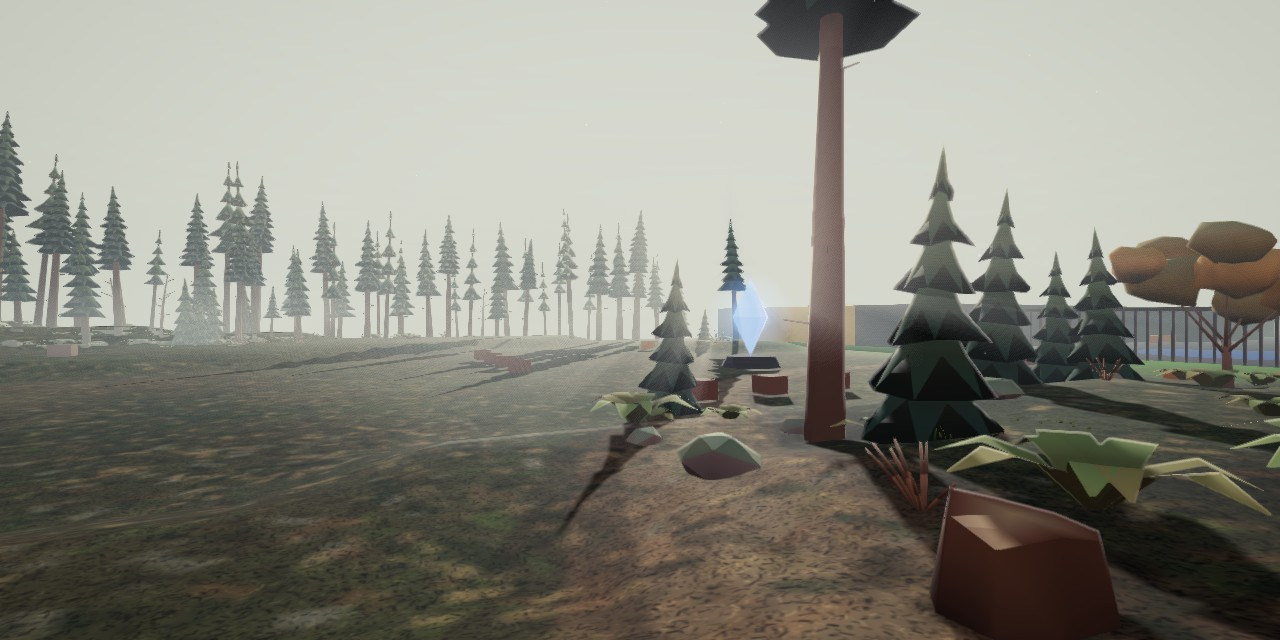
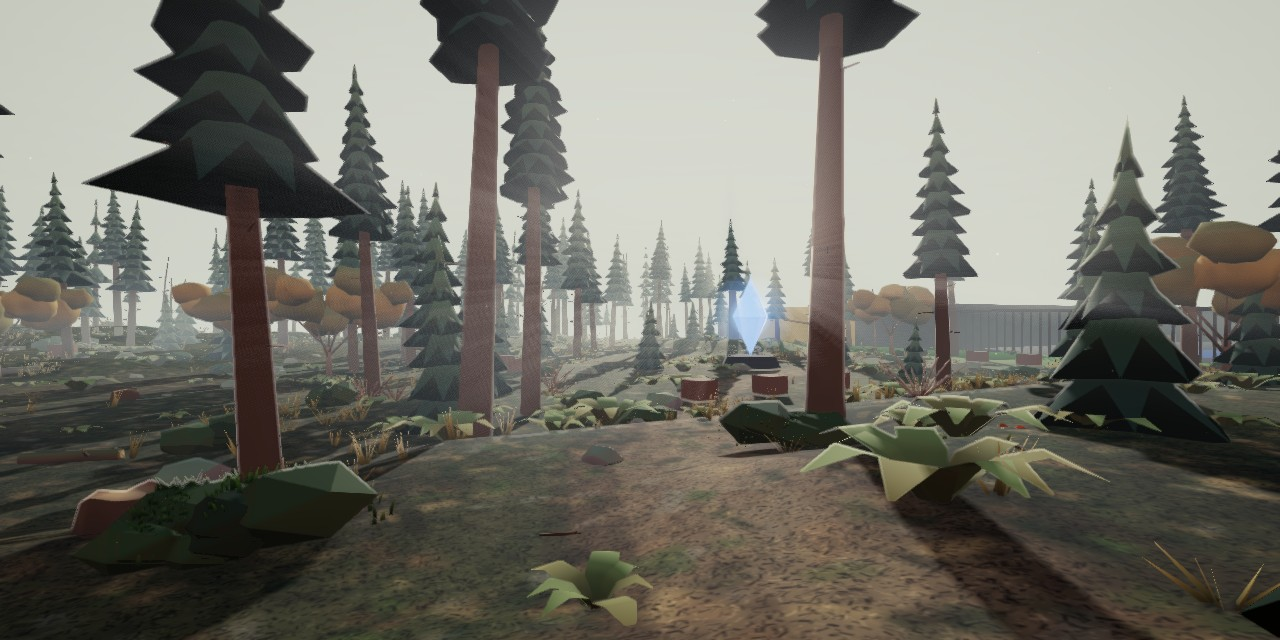
Castle Strike forest: denser solid trees, solid boulders, living ground detail (protocol v81)
genFcs adds ~170 seeded collidable forest trees, a two-row solid tree wall along the map edge and solid boulders on slopes (same on every client). Forest view draws them plus code-built grass tufts, leafy bushes, twigs and mushrooms, and more ferns/stones/logs. Bench siege 12 players High 1080p: GPU 7.1 ms median.

diff --git a/js/28-fcs-forest.js b/js/28-fcs-forest.js
@@ -75,12 +75,11 @@ function fcsForest(fallback){
   const hOf={pine_a:20.5,pine_b:26.3,pine_c:15.6,pine_d:31.1,pine_s:6.6,pine_la:24.3,pine_lb:19.5,snag_a:13,snag_b:9,autumn_a:11.4,autumn_b:9.8};
   for(const [x,y] of trees){const [id,h]=pickTree();put(id,x,y,h/hOf[id]);}
   // ผนังต้นไม้รอบขอบ (ไม่ชน): 2 แถว ห่าง ~3.3 ม. สนไกลเบา ๆ ปนสนจริง
-  const edge=(x,y)=>{if(!free(x,y,0)||nearP(x,y,sps,110))return;const q=R(),far=R()<0.42;
+  const edge=(x,y)=>{const q=R(),far=R()<0.42;
     if(far)put(q<0.5?'pine_la':'pine_lb',x,y,(0.55+R()*0.45),{lean:1});
     else{const [id,h]=pickTree();put(id==='autumn_a'||id==='autumn_b'?'pine_a':id,x,y,h/hOf[id==='autumn_a'||id==='autumn_b'?'pine_a':id]*(0.9+R()*0.3),{lean:1});}};
-  for(let row=0;row<2;row++){const d0=60+row*110;
-    for(let y=40;y<H;y+=62+R()*28)edge(d0+R()*60,y+R()*30);                       // ตะวันตก
-    for(let x=100;x<(FF_X1-3)*C;x+=62+R()*28){edge(x+R()*30,d0+R()*50);edge(x+R()*30,H-d0-R()*50);}}   // เหนือ/ใต้
+  // ผนังต้นไม้ขอบแผนที่ (ชนได้ — สร้างใน genFcs js/02-fcs.js) • สนไกลเบา ๆ ปนสนจริง
+  for(const q of F.props)if(q[0]==='te')edge(q[1],q[2]);
   // สนอ่อน (ต้นเล็กแซมใต้ร่ม)
   for(let i=0;i<70;i++){const [bx,by]=trees[(R()*trees.length)|0],a=R()*6.283,d=70+R()*160,x=bx+Math.cos(a)*d,y=by+Math.sin(a)*d;if(free(x,y,1))put('pine_s',x,y,0.7+R()*0.7,{lean:1});}
   // เฟิร์น+พุ่ม เป็นกลุ่มรอบโคนต้นไม้และกลางหย่อม
@@ -90,10 +89,19 @@ function fcsForest(fallback){
   scatter(['stone_a','stone_b','stone_c'],190,260,(id,x,y)=>put(id,x,y,0.8+R()*1.4));
   scatter(['stump_a'],14,300,(id,x,y)=>{if(free(x,y,1))put(id,x,y,0.7+R()*0.5);});
   scatter(['log_a','log_b','log_c'],26,300,(id,x,y)=>{if(free(x,y,1))put(id,x,y,0.8+R()*0.5);});
-  // หินก้อนใหญ่ตามไหล่เนิน/ขอบหน้าผา (ที่ชัน) + หินเล็กรอบ ๆ
-  let nb=0;for(let t=0;t<2600&&nb<44;t++){const x=60+R()*(FF_X1*C-120),y=60+R()*(H-120);if(!free(x,y,1)||slope(x,y)<0.28)continue;
-    const id=['boulder_a','boulder_b','boulder_c','boulder_d','boulder_a','cliff_a'][(R()*6)|0];put(id,x,y,0.7+R()*0.7);nb++;
-    for(let q=0;q<3;q++){const a=R()*6.283,d=30+R()*60,sx=x+Math.cos(a)*d,sy=y+Math.sin(a)*d;if(free(sx,sy,0))put(['stone_a','stone_b','stone_c'][q],sx,sy,1+R()*1.4);}}
+  // หินก้อนใหญ่ (ชนได้ — ตำแหน่ง/ชนิด/ขนาดจาก genFcs) + หินเล็กรอบ ๆ
+  for(const q of F.props){if(q[0]!=='bd')continue;const [,x,y,ty,sz]=q;put(['boulder_a','boulder_b','boulder_c','boulder_d','cliff_a'][ty],x,y,sz);
+    for(let k=0;k<4;k++){const a=R()*6.283,d=40+R()*70,sx=x+Math.cos(a)*d,sy=y+Math.sin(a)*d;if(free(sx,sy,0))put(['stone_a','stone_b','stone_c'][k%3],sx,sy,1+R()*1.6);}}
+  // พื้นมีชีวิต: ของเล็กเกลี่ยทั่วป่า (ไม่ชน) — กอหญ้า, พุ่มใบ, กิ่งไม้, เห็ด, หิน, เฟิร์น
+  const trailP=[[3,40],[4,36],[7,32],[10,28],[12,24],[14,19],[17,15],[20,13.5],[24,14],[28,14]].map(([a,b])=>[(a+0.5)*C,(b+0.5)*C]);
+  const dTrail=(x,y)=>{let m=1e9;for(let i=1;i<trailP.length;i++){const [ax,ay]=trailP[i-1],[bx,by]=trailP[i],dx=bx-ax,dy=by-ay,t=clamp(((x-ax)*dx+(y-ay)*dy)/(dx*dx+dy*dy),0,1);m=Math.min(m,Math.hypot(x-ax-t*dx,y-ay-t*dy));}return m;};
+  const area=(n,fn)=>{for(let i=0;i<n;i++){const x=20+R()*(FF_X1*C-40),y=20+R()*(H-40);if(!free(x,y,0))continue;if(x>(FF_X1-4)*C&&R()<0.75)continue;fn(x,y,dTrail(x,y));}};
+  area(500,(x,y,d)=>{if(d>40)put(R()<0.5?'fern_a':'fern_b',x,y,0.8+R()*1.0);});
+  area(260,(x,y,d)=>{if(d>30)put(['stone_a','stone_b','stone_c'][(R()*3)|0],x,y,0.7+R()*1.8);});
+  area(60,(x,y,d)=>{if(d>60&&free(x,y,1))put(R()<0.5?'shrub_a':'shrub_b',x,y,0.9+R()*0.7);});
+  area(30,(x,y,d)=>{if(d>70&&free(x,y,1))put(['log_b','log_c','stump_a'][(R()*3)|0],x,y,0.8+R()*0.5);});
+  area(40,(x,y,d)=>{if(d>50)put('pine_s',x,y,0.5+R()*0.6,{lean:1});});
+  ffDetail(W,R,area,trees,free);
   // ---------- โหลดโมเดลแล้วสร้าง InstancedMesh ----------
   (typeof gltfLoader==='function'?gltfLoader():Promise.reject('no loader')).then(L=>L.loadAsync('assets/mapkit/gorge.glb?v=9')).then(gltf=>{
     if(!W.parent)return;
@@ -109,6 +117,41 @@ function fcsForest(fallback){
     for(const o of FF.fb){if(!o)continue;W.remove(o);if(o.geometry)o.geometry.dispose();}FF.fb=[];   // ลบต้นไม้กรวยเดิมที่ใช้ชั่วคราว
     if(typeof gl!=='undefined')gl.shadowMap.needsUpdate=true;
   }).catch(err=>console.warn('fcs forest',err));
+}
+// รวมรูปทรงหลายชิ้น (ไม่มี index) เป็นก้อนเดียว พร้อมสีจุดยอด: parts = [[geometry, สี, Matrix4, สีปลาย?]]
+function ffMerge(parts){
+  const P=[],N=[],Cl=[],c=new THREE.Color(),c2=new THREE.Color();
+  for(const [g0,col,m,tip] of parts){const g=(g0.index?g0.toNonIndexed():g0.clone()).applyMatrix4(m);g.computeVertexNormals();
+    const p=g.attributes.position,n=g.attributes.normal;g.computeBoundingBox();const y0=g.boundingBox.min.y,y1=g.boundingBox.max.y;c.set(col);if(tip)c2.set(tip);
+    for(let i=0;i<p.count;i++){P.push(p.getX(i),p.getY(i),p.getZ(i));N.push(n.getX(i),n.getY(i),n.getZ(i));const t=tip?(p.getY(i)-y0)/Math.max(1e-4,y1-y0):0;Cl.push(c.r+(c2.r-c.r)*t,c.g+(c2.g-c.g)*t,c.b+(c2.b-c.b)*t);}g.dispose();}
+  const g=new THREE.BufferGeometry();g.setAttribute('position',new THREE.Float32BufferAttribute(P,3));g.setAttribute('normal',new THREE.Float32BufferAttribute(N,3));g.setAttribute('color',new THREE.Float32BufferAttribute(Cl,3));return g;
+}
+// ของเล็กที่สร้างในโค้ด (InstancedMesh): กอหญ้าแห้ง/เขียว, พุ่มใบเขียวเข้ม, กิ่งไม้ร่วง, เห็ดเป็นกลุ่ม
+function ffDetail(W,R,area,trees,free){
+  const M=new THREE.Matrix4(),q=new THREE.Quaternion(),e=new THREE.Euler(),v=new THREE.Vector3(),sv=new THREE.Vector3(),col=new THREE.Color(),g=new THREE.Group();
+  const gr=mulberry(31),tri=new THREE.BufferGeometry();tri.setAttribute('position',new THREE.Float32BufferAttribute([-0.035,0,0,0.035,0,0,0,1,0],3));
+  const tuft=ffMerge(Array.from({length:9},(_,i)=>{const a=i/9*6.283+gr(),h=0.35+gr()*0.45,lean=0.25+gr()*0.5;e.set(Math.sin(a)*lean,a,Math.cos(a)*lean*0.3);q.setFromEuler(e);
+    return [tri,'#3a3f22',new THREE.Matrix4().compose(v.set(Math.cos(a)*0.06,0,Math.sin(a)*0.06),q,sv.set(1,h,1)),'#a8a46a'];}));
+  const bush=ffMerge(Array.from({length:6},(_,i)=>[new THREE.IcosahedronGeometry(0.45+gr()*0.3,0),i<2?'#2c3a22':'#3a4a2a',new THREE.Matrix4().compose(v.set((gr()-0.5)*0.9,0.35+gr()*0.4,(gr()-0.5)*0.9),q.identity(),sv.set(1,0.8,1))]));
+  const twig=ffMerge([[new THREE.CylinderGeometry(0.03,0.045,1,5),'#4a3a28',new THREE.Matrix4().makeRotationZ(Math.PI/2)],[new THREE.CylinderGeometry(0.015,0.025,0.35,4),'#4a3a28',new THREE.Matrix4().compose(v.set(0.15,0.06,0.08),q.setFromEuler(e.set(0.6,0.8,1.0)),sv.set(1,1,1))]]);
+  const mush=ffMerge([0,1,2].flatMap(i=>{const x=(gr()-0.5)*0.3,z=(gr()-0.5)*0.3,s=0.6+gr()*0.6;return [[new THREE.CylinderGeometry(0.02*s,0.025*s,0.1*s,5),'#d8ceb4',new THREE.Matrix4().makeTranslation(x,0.05*s,z)],[new THREE.ConeGeometry(0.07*s,0.05*s,7),i?'#8a4a2a':'#b0562e',new THREE.Matrix4().makeTranslation(x,0.115*s,z)]];}));
+  const mat=new THREE.MeshStandardMaterial({vertexColors:true,roughness:0.95,side:THREE.DoubleSide});
+  const matF=new THREE.MeshStandardMaterial({vertexColors:true,roughness:0.9,flatShading:true});
+  const make=(geo,m,L,shadow)=>{if(!L.length)return;const im=new THREE.InstancedMesh(geo,m,L.length);
+    L.forEach((o,i)=>{e.set(o.tx||0,o.r,o.tz||0);q.setFromEuler(e);sv.set(o.s,o.sy||o.s,o.s);M.compose(v.set(tx(o.x),GY(o.x,o.y)+(o.dy||0),tz(o.y)),q,sv);im.setMatrixAt(i,M);col.setHSL(o.h||0,o.sat||0,o.l||1);im.setColorAt(i,col);});
+    im.castShadow=!!shadow;im.receiveShadow=true;g.add(im);};
+  const T=[],B=[],K=[],U=[];
+  // กอหญ้า: เป็นหย่อม ๆ (จุดศูนย์กลางสุ่ม + กระจายรอบ) โทนเขียวหม่นถึงเหลืองแห้ง • ไม่ขึ้นกลางทางดิน
+  const tc=[];area(140,(x,y,d)=>tc.push([x,y]));
+  for(const [cx,cy] of tc){const n=8+(R()*22|0),sp=40+R()*90;for(let i=0;i<n;i++){const a=R()*6.283,d=Math.sqrt(R())*sp,x=cx+Math.cos(a)*d,y=cy+Math.sin(a)*d;if(!free(x,y,0))continue;
+    T.push({x,y,s:0.7+R()*0.9,sy:0.6+R()*1.1,r:R()*6.283,tx:(R()-0.5)*0.2,tz:(R()-0.5)*0.2,h:0,sat:0,l:0.75+R()*0.45});}}
+  area(700,(x,y,d)=>{if(d>25)T.push({x,y,s:0.6+R()*0.8,sy:0.5+R(),r:R()*6.283,l:0.7+R()*0.4});});
+  // พุ่มใบ: รอบโคนต้นไม้บางต้น + กลางหย่อม
+  for(let i=0;i<180;i++){const [bx,by]=trees[(R()*trees.length)|0],a=R()*6.283,d=40+R()*120,x=bx+Math.cos(a)*d,y=by+Math.sin(a)*d;if(free(x,y,1))B.push({x,y,s:0.7+R()*0.9,sy:0.6+R()*0.6,r:R()*6.283,l:0.8+R()*0.35,dy:-0.1});}
+  area(380,(x,y,d)=>{if(d>35)K.push({x,y,s:0.6+R()*0.9,r:R()*6.283,dy:0.03,l:0.8+R()*0.3});});
+  area(90,(x,y,d)=>{if(d>40)U.push({x,y,s:0.8+R()*0.8,r:R()*6.283,l:1});});
+  make(tuft,mat,T,0);make(bush,matF,B,1);make(twig,matF,K,0);make(mush,matF,U,0);
+  W.add(g);
 }
 // หมอก/แสงเฉพาะในป่า: ผสมตามตำแหน่งกล้อง (เรียกทุกเฟรมจาก sgSync)
 function fcsForestTick(){

diff --git a/js/02-fcs.js b/js/02-fcs.js
@@ -35,6 +35,29 @@ function genFcs(){
     else if(t==='cr'){obs.push({x:cx,y:cy,r:14,k:'fcc',hgt:1.2,s:0});props.push(['cr',cx,cy]);}
     else if(t==='pl'){obs.push({x:cx,y:cy,r:13,k:'fcp',hgt:6,s:0});props.push(['pl',cx,cy]);}
   }
+  // ป่าทึบ (เฟส 1, ช่อง x<28): ต้นไม้/หินชนได้เพิ่มจากที่ผู้ใช้วาง (ผู้ใช้ 2026-11-18 "denser and solid") — สุ่มด้วย seed คงที่ ทุกเครื่องได้ผลเดียวกัน
+  // props: ['tr',x,y,1] ต้นในป่าเพิ่ม • ['te',x,y] ผนังต้นไม้ขอบแผนที่ • ['bd',x,y,ชนิด,ขนาด] หินก้อนใหญ่ — ภาพอยู่ js/28-fcs-forest.js
+  {const R=mulberry(918273),X1=28*C,hAt=(px,py)=>{const fx=clamp(px/c,0,nx-1.001),fy=clamp(py/c,0,ny-1.001),i=fx|0,j=fy|0,u=fx-i,v=fy-j,k=j*nx+i;return (g[k]*(1-u)+g[k+1]*u)*(1-v)+(g[k+nx]*(1-u)+g[k+nx+1]*u)*v;};
+   const slope=(x,y)=>Math.hypot(hAt(x+30,y)-hAt(x-30,y),hAt(x,y+30)-hAt(x,y-30))/3;
+   const spL=[];for(const t of ['A','B'])for(const k in sp[t])spL.push(sp[t][k]);
+   const trail=[[3,40],[4,36],[7,32],[10,28],[12,24],[14,19],[17,15],[20,13.5],[24,14],[28,14]].map(([a,b])=>[(a+0.5)*C,(b+0.5)*C]);
+   const dSeg=(x,y)=>{let m=1e9;for(let i=1;i<trail.length;i++){const [ax,ay]=trail[i-1],[bx,by]=trail[i],dx=bx-ax,dy=by-ay,t=clamp(((x-ax)*dx+(y-ay)*dy)/(dx*dx+dy*dy),0,1);m=Math.min(m,Math.hypot(x-ax-t*dx,y-ay-t*dy));}return m;};
+   const solid=props.map(q=>[q[1],q[2],q[0]==='tr'?100:70]);
+   const ok=(x,y,gap)=>x>20&&y>20&&x<X1-30&&y<H-20&&!wc(Math.floor(x/C),Math.floor(y/C))&&!wc(Math.floor((x+25)/C),Math.floor(y/C))&&!wc(Math.floor((x-25)/C),Math.floor(y/C))
+     &&!spL.some(s=>Math.hypot(s.x-x,s.y-y)<300)&&!cores.some(k=>Math.hypot(k.x-x,k.y-y)<330)&&!bw.some(b=>x>b.x-60&&x<b.x+b.w+60&&y>b.y-60&&y<b.y+b.d+60)
+     &&!solid.some(([sx,sy,r])=>Math.hypot(sx-x,sy-y)<Math.max(r,gap));
+   const add=(k,x,y,r,hg,extra)=>{obs.push({x,y,r,k,hgt:hg,s:0});props.push([k==='fcb2'?'bd':k==='fce'?'te':'tr',x,y,...(extra||[])]);solid.push([x,y,r+60]);};
+   // ผนังต้นไม้รอบขอบ 2 แถว
+   for(let row=0;row<2;row++){const d0=40+row*90;
+     for(let y=60;y<H-40;y+=70+R()*30){const x=d0+R()*50;if(ok(x,y,70))add('fce',x,y,12,7);}
+     for(let x=120;x<X1-150;x+=70+R()*30){for(const y of [d0+R()*40,H-d0-R()*40])if(ok(x,y,70))add('fce',x,y,12,7);}}
+   // ต้นไม้เพิ่มในป่า (ห่างกัน ≥ 5 ม., เว้นทางดินกว้าง ~6 ม.)
+   for(let t=0,n=0;t<6000&&n<170;t++){const x=40+R()*(X1-80),y=40+R()*(H-80);if(dSeg(x,y)<120||!ok(x,y,100))continue;add('fct',x,y,10,7,[1]);n++;}
+   // หินก้อนใหญ่ตามไหล่เนิน (ชนได้) • ชนิด 0-3 boulder_a-d, 4 cliff_a • รัศมีชน ≈ ครึ่งกว้างโมเดล × ขนาด
+   const BD=[[2.3,2.7],[1.3,1.6],[1.1,1.3],[0.9,1.2],[3.9,5.4]];
+   for(let t=0,n=0;t<4000&&n<46;t++){const x=60+R()*(X1-120),y=60+R()*(H-120);if(slope(x,y)<0.28||dSeg(x,y)<90)continue;
+     const ty=[0,1,2,3,0,4][(R()*6)|0],s=0.7+R()*0.6,r=Math.max(14,BD[ty][0]*s*20*0.75);if(!ok(x,y,r+50))continue;add('fcb2',x,y,r,BD[ty][1]*s,[ty,+s.toFixed(3)]);n++;}
+  }
   for(const k of cores)obs.push({x:k.x,y:k.y,r:40,k:'fck',hgt:6,s:0});   // ตัวแกน (คริสตัล) ชนได้
   // เฟส: โซนชนิด "เฟส" ชื่อ "เฟส N" หลายกรอบรวมกัน = พื้นที่เล่นของเฟส N
   const phases=[];

diff --git a/js/10-net.js b/js/10-net.js
@@ -1,7 +1,7 @@
 // =====================================================================
 //  เครือข่าย (PeerJS / WebRTC)
 // =====================================================================
-const PREFIX='wizduel-th-v80-';
+const PREFIX='wizduel-th-v81-';
 const NET={peer:null,isHost:false,online:false,myId:'me',conns:new Map(),hostConn:null,code:'',spec:false,rtt:0,
   // token ของแท็บนี้ (อยู่ข้ามการรีเฟรช) — โฮสต์ใช้จำว่า "คนเดิมต่อกลับมา" ตอนเน็ตหลุด
   tok:(()=>{const r=()=>Math.random().toString(36).slice(2,10);try{let t=sessionStorage.getItem('wd_tok');if(!t){t=r();sessionStorage.setItem('wd_tok',t);}return t;}catch(e){return r();}})()};

diff --git a/tools/fcs-forest-shots.js b/tools/fcs-forest-shots.js
@@ -19,7 +19,7 @@ const SHOTS=window.__SHOTS||[
   ['01_spawn_view',3.2,41,1.8,10,28,3,60],
   ['02_trail_mid',8,31,1.8,14,20,4,58],
   ['03_toward_core',13,22,2.0,18,12,4,58],
-  ['04_core_closeup',13.5,17,2.0,18,12,3,60],
+  ['04_core_closeup',15.6,17.2,2.0,18.5,12.5,3,60],
   ['05_slope_rocks',19,31,2.6,9,26,3,62],
   ['06_ferns_low',5.5,27,1.0,13,26,2,64],
   ['07_far_trees',2,9,2.0,24,18,5,64],

diff --git a/HANDOFF.md b/HANDOFF.md
@@ -2,7 +2,7 @@
 
 **ส่งต่อสำหรับ ChatGPT:** อ่าน `notes/CHATGPT-LIGHT-HANDOFF.md` สำหรับงาน VFX สาย Light ร่างปกติ
 
-**ป่า Castle Strike (fcs เฟส 1) ตามรูปหุบเขาสน 2026-11-18 (ผู้ใช้ขอเฉพาะส่วนป่า):** `js/28-fcs-forest.js` (ใหม่) — ภาพล้วน ไม่แตะวงชน/บอท/โปรโตคอล: ต้นไม้ชนได้ยังเป็นตำแหน่ง 'tr' เดิม แต่ใช้โมเดลสน/ใบแดง/ไม้ตายจาก `assets/mapkit/gorge.glb` (InstancedMesh) • เพิ่มของไม่ชน: ผนังสนรอบขอบ 2 แถว, เฟิร์น, พุ่ม, หิน, ท่อนไม้, ตอไม้, หินก้อนใหญ่ตามไหล่เนิน • พื้นป่า = ภาพวาดทับพื้นหญ้า (มอส/ใบสน/ทางดินจุดเกิด→จุดยึด 1, จางหายที่ขอบปราสาท x≈28 ช่อง) + ลายละเอียดซ้ำใน shader • เข้าป่า → หมอกเขียวเทา + ฟ้าครึ้ม + แสงเย็นลง ผสมตามกล้อง (`fcsForestTick` ใน sgSync) ปราสาทเหมือนเดิม • ต้นกรวยเดิมเป็นตัวสำรองจนโมเดลโหลดเสร็จ • ถ่ายภาพ `tools/fcs-forest-shots.js` (ผล `designs/fcs_forest/`) • ยังไม่ได้ bench perf siege (tris ซีนรวม ~300k) / ลังไม้น้ำตาลในป่ายังเป็นของเดิม
+**ป่า Castle Strike (fcs เฟส 1) ตามรูปหุบเขาสน 2026-11-18 (ผู้ใช้ขอเฉพาะส่วนป่า):** `js/28-fcs-forest.js` (ใหม่) — ภาพล้วน ไม่แตะวงชน/บอท/โปรโตคอล: ต้นไม้ชนได้ยังเป็นตำแหน่ง 'tr' เดิม แต่ใช้โมเดลสน/ใบแดง/ไม้ตายจาก `assets/mapkit/gorge.glb` (InstancedMesh) • เพิ่มของไม่ชน: ผนังสนรอบขอบ 2 แถว, เฟิร์น, พุ่ม, หิน, ท่อนไม้, ตอไม้, หินก้อนใหญ่ตามไหล่เนิน • พื้นป่า = ภาพวาดทับพื้นหญ้า (มอส/ใบสน/ทางดินจุดเกิด→จุดยึด 1, จางหายที่ขอบปราสาท x≈28 ช่อง) + ลายละเอียดซ้ำใน shader • เข้าป่า → หมอกเขียวเทา + ฟ้าครึ้ม + แสงเย็นลง ผสมตามกล้อง (`fcsForestTick` ใน sgSync) ปราสาทเหมือนเดิม • ต้นกรวยเดิมเป็นตัวสำรองจนโมเดลโหลดเสร็จ • ถ่ายภาพ `tools/fcs-forest-shots.js` (ผล `designs/fcs_forest/`) • **อัปเดต (ผู้ใช้ "denser and solid"):** `genFcs` (js/02-fcs.js) สุ่ม seed คงที่เพิ่มต้นไม้ชนได้ ~170 ต้นในป่า (ห่าง ≥5 ม., เว้นทางดิน/จุดเกิด/แกน/กำแพงพังได้) + ผนังต้นไม้ขอบแผนที่ 2 แถว (`te`) + หินก้อนใหญ่ตามไหล่เนิน (`bd`, วงชนตามขนาด) → props/obs เดียวกันทุกเครื่อง, บอทนำทางผ่าน obs เอง • PREFIX v81 • พื้นมีชีวิตขึ้น: กอหญ้า/พุ่มใบ/กิ่งไม้/เห็ด สร้างในโค้ด (`ffDetail`, InstancedMesh) + เฟิร์น/หิน/พุ่ม/ท่อนไม้/สนอ่อนเกลี่ยทั่วป่า • ต้นไม้ยังล้ม/พังไม่ได้ • bench 12 คน siege High 1080p GPU 7.1 ms median (tris ซีนรวม ~450k) • ลังไม้น้ำตาลในป่ายังเป็นของเดิม
 **แมพ gorge 2026-11-18 (ผู้ใช้ส่งรูปอ้างอิงหุบเขาสนหมอก):** แมพ Map Builder `gorge` 🌲 หุบเขาหมอก 160×110 — สะพานไม้มีหลังคากลางแมพ เดินข้าม/ลอดใต้ได้ • สร้างด้วย `node tools/gorge-assets.mjs && node tools/gorge-map.mjs` แล้ว `tools/mb-export.js` (อ่าน `notes/gorge-map.md`) • ฟิลด์ใหม่ในไฟล์แมพ `look` + `lt` (แสง/ฟ้าครึ้ม) • ลุคปรับสดใน tune.html → 🌗 Look → gorge • bench 6v6 GPU 8.9 ms ≈ forest • `random:0` (เลือกเองในล็อบบี้) • ยังไม่ได้เล่นจริงหลายคน รอผู้ใช้ดู (Review Board) • ภาพเทียบ `designs/gorge_ref/compare.jpg`
 
 **Dev Mode 2026-11-18 (ผู้ใช้สั่ง: ไว้ทดสอบแมพในแมตช์จริง):** `js/77-dev.js` — เปิดด้วย `?dev=1` (จำไว้ใน localStorage, ปิด `?dev=0`) หรือดับเบิลคลิก `Dev-Test.bat` • ใช้ได้เฉพาะโฮสต์ออฟไลน์ (`NET.online` = ปิดอัตโนมัติ) • **F2** หน้าต่าง Dev: เปลี่ยนสาย/คาถากลางแมตช์ (`setKit` + `myKit`), โกง (อมตะ/ไม่มีคูลดาวน์/อัลติเต็ม/วิ่งเร็ว ×3/เกิดไว), **F3** กล้องอิสระ (WASD+Space/Ctrl+Shift+ล้อเมาส์, ตัวละครไม่ขยับ), มองจากบน, วาร์ป (แกน/จุดเกิด/จุดเล็ง **F6**/กล้อง), คุม siege (เฟส 1–3, ข้ามเตรียมตัว, แกนแตก/เต็ม, เวลา, ซ่อม/พังกำแพง, ตัดสินผล, สลับฝั่งบุก/รับ), เสกบอท (ฝั่ง/สาย/ระดับ), บอทหยุดนิ่ง, **F4** หยุดโลก, **F8** สโลว์ ×0.25–×2, โชว์กล่องชน (OBS) + วงเขตยึด/จุดเกิดปลอดภัย, **F7** คัดลอกพิกัดที่เล็ง (px + ช่อง) • hook ในไฟล์อื่น: `hostTick` (js/11, `devDt`/`devTick`/`devFreeze`), `damage` (js/12-buildings `devGod`), `moveMul` (js/03 `devSpd`), render loop (js/37 `devFcCam`), pointerlock (js/31) • ดีบัก: `WD.dev` • ⚠ ยังไม่ได้ลองเมาส์ล็อกจริง (พาเนลเบราว์เซอร์ถูกซ่อน rAF ไม่เดิน — ทดสอบด้วย WD.hostStep/WD.render)

diff --git a/notes/CHANGELOG.md b/notes/CHANGELOG.md
@@ -1,5 +1,6 @@
 # Changelog (newest first in the 2026-10-19+ entries, then oldest → newest)
 
+- 2026-11-18 — **ป่า Castle Strike ทึบ+ชนได้ (protocol v81):** `genFcs` เพิ่มต้นไม้ชนได้ ~170 ต้น + ผนังต้นไม้ขอบ (`te`) + หินก้อนใหญ่ชนได้ (`bd`) สุ่ม seed คงที่ (ทุกเครื่องตรงกัน) • `js/28-fcs-forest.js` ใช้ props เหล่านี้วาดภาพ + `ffDetail`/`ffMerge`: กอหญ้า พุ่มใบ กิ่งไม้ เห็ด (InstancedMesh) + ของเกลี่ยทั่วป่าเพิ่ม • bench siege 12 คน GPU 7.1 ms
 - 2026-11-18 — **ป่าใน Castle Strike (fcs เฟส 1) ตามรูปหุบเขาสน:** ไฟล์ใหม่ `js/28-fcs-forest.js` (ลง FILES หลัง 28-fcs-build) + hook ใน `buildFcs`/`sgSync` (js/28-fcs-build.js): สน/ใบแดง/ไม้ตายจาก gorge.glb แทนต้นกรวย (ตำแหน่งชนเดิม), ผนังสนรอบขอบ, เฟิร์น/พุ่ม/หิน/ท่อนไม้ (ไม่ชน), พื้นป่าภาพวาด+ทางดิน, หมอก/ฟ้าครึ้ม/แสงเย็นเฉพาะตอนกล้องอยู่ในป่า • ไม่เปลี่ยนโปรโตคอล (PREFIX เดิม) • `tools/fcs-forest-shots.js`, ภาพ `designs/fcs_forest/`
 - 2026-11-18 — **แมพใหม่ gorge 🌲 หุบเขาหมอก** (ตามรูปอ้างอิงผู้ใช้): สร้างด้วยโค้ด `tools/gorge-assets.mjs` (โมเดล 28 ชิ้นลงคลัง `assets/mapkit/gorge.glb`: สนสูง/สนไกลเบา/ลำเปลือย/ต้นใบเหลือง/หินมอสเหลี่ยม/ผา/ขอน/ตอ/พุ่ม/เฟิร์น/สะพานมีหลังคา) + `tools/gorge-map.mjs` (ภูมิประเทศหุบคดเคี้ยว สะพานเดินข้ามและลอดใต้ได้ จุดเกิด) → `maps/build/gorge.json` → ส่งเข้าเกมด้วย `tools/mb-export.js` • ระบบใหม่: ไฟล์แมพมีฟิลด์ `look` (พรีเซ็ต Look) + `lt` (แสง/ฟ้าครึ้มเฉพาะแมพ; js/02-data `fm.look/lt`, js/28 `buildFileMap`, js/27 `setSky` รีเซ็ตสีฟ้า), พรีเซ็ต `LOOK.P.gorge` (js/74), SURF ใหม่ 16–20 ใน `mapbuild/model.js`, `WD.lookRefresh` • วัด 6v6 GPU 8.9 ms (forest 9.1) • รายละเอียด `notes/gorge-map.md`, ภาพ `designs/gorge_ref/`
 - 2026-11-18 — **ลดควันทั้งเกม:** `SMOKE_K` 0.4 (js/19-client.js) คูณควันทุกจุด: `burst` แบบควัน/`smoke()`, เอฟเฟกต์ Studio `look:"smoke"` (burst และ rate) และหมอก `mist` • ลดเพิ่ม: ลมรอบร่อง Tailwind (6/3/22), ควัน Colossus และ Blazeform เล็กลงครึ่ง, ฝุ่น Dust Burst บางลงอีก (ผ่านตัวคูณกลาง)

diff --git a/review/REVIEW.md b/review/REVIEW.md
@@ -7,16 +7,19 @@
 - สถานะ: ⏳ รอผู้ใช้รีวิว • ชนิด: แมพ / ภาพ • สาย/ส่วน: แมพ
 
 **วิธีดู / อะไรรอรีวิว:**
-เปิดเกม → โหมดบุกปราสาท (siege) แมพ fcs เฟส 1 (ฝั่งซ้าย/ป่า) • ต้นสนใหม่แทนต้นกรวย, หมอกเขียวเทา+ฟ้าครึ้มเฉพาะในป่า (เดินออกไปปราสาทแล้วกลับเป็นแสงเดิม) • ภาพ designs/fcs_forest/sheet.jpg • เป็นภาพล้วน ไม่มีวงชนเพิ่ม (ต้นไม้ชนได้ยังตำแหน่งเดิม) — อยากให้ป่าทึบขึ้น/ให้ต้นใหม่ชนได้ บอกได้ • ยังไม่ได้เล่นจริงหลายคน/บอท ยังไม่ได้ bench
+เปิดเกม → โหมดบุกปราสาท (siege) แมพ fcs เฟส 1 (ฝั่งซ้าย/ป่า) • ต้นสนใหม่แทนต้นกรวย, หมอกเขียวเทา+ฟ้าครึ้มเฉพาะในป่า (เดินออกไปปราสาทแล้วกลับเป็นแสงเดิม) • ภาพ designs/fcs_forest/sheet.jpg • ต้นไม้และหินก้อนใหญ่ชนได้ทั้งหมด (ต้นไม้ล้มไม่ได้) • ยังไม่ได้เล่นจริงหลายคน/บอท ยังไม่ได้ bench
 
 - ลิงก์/ไฟล์: `/designs/fcs_forest/sheet.jpg`
 - ลิงก์/ไฟล์: `/designs/fcs_forest/01_spawn_view.jpg`
-- ลิงก์/ไฟล์: `/designs/fcs_forest/03_toward_core.jpg`
+- ลิงก์/ไฟล์: `/designs/fcs_forest/04_core_closeup.jpg`
+- ลิงก์/ไฟล์: `/designs/fcs_forest/07_far_trees.jpg`
 
 **เช็กลิสต์:**
 - [ ] ป่าใกล้รูปอ้างอิงไหม (สน หมอก พื้น)
 - [ ] ต้นไม้/ของตกแต่งพอไหม อยากเพิ่ม/ลดอะไร
 - [ ] เล่นบอท/หลายคนแล้วภาพลื่นไหม
+
+> **Claude ตอบ:** ทำให้ทึบขึ้น+ชนได้แล้ว: ต้นไม้ชนได้เพิ่ม ~170 ต้น + แนวต้นไม้ขอบแมพ + หินก้อนใหญ่ชนได้ • พื้นมีกอหญ้า พุ่มใบ กิ่งไม้ เห็ด หิน เฟิร์น เพิ่ม • ต้นไม้ยังล้มไม่ได้ • ภาพใหม่ designs/fcs_forest/sheet.jpg
 
 ## #70 แมพใหม่ gorge 🌲 หุบเขาหมอก (ตามรูปอ้างอิง)
 - สถานะ: ⏳ รอผู้ใช้รีวิว • ชนิด: แมพ / ภาพ • สาย/ส่วน: แมพ

diff --git a/CODEMAP.md b/CODEMAP.md
@@ -29,10 +29,10 @@ HOUSES:232 HAIRC:237 HAIRSTY:239 WOODC:242 WOODN:243 WCOREC:244 WCOREN:245 WANDS
 ## js/02-fcs-data.js (3) — 
 FCS_DATA:3
 
-## js/02-fcs.js (71) — 
+## js/02-fcs.js (94) — 
 FCS_C:7 FCS_WH:8 genFcs:9
-§45 พื้นที่เล่นตามเฟส (กำแพงล่องหน) + เขตจุดเกิดปลอดภัย — ใช้ทั้งโฮสต์ (G…
-SGPH:46 SG_SPR:47 _sgAreaC:48 sgArea:49 sgClamp:55 sgInArea:65
+§68 พื้นที่เล่นตามเฟส (กำแพงล่องหน) + เขตจุดเกิดปลอดภัย — ใช้ทั้งโฮสต์ (G…
+SGPH:69 SG_SPR:70 _sgAreaC:71 sgArea:72 sgClamp:78 sgInArea:88
 
 ## js/03-spells-core.js (249) — 
 ICONS:8 ICOALIAS:9 hasIco:10 ICOBASE:12 icoURL:13 ICO:14 icoTint:15 icoHTML:24 PATHS:25 SPELL_LIST:34 SPELLS:34 defSpell:35 SLOTK:36 BRMAP:36 KITP:37 parseKit:38 cleanKit:55 setKit:56 pathReset:59
@@ -187,7 +187,7 @@ windUltCast:504 windUltTick:507 windUltSweep:532 windFloatZ:540 windSnapP:543 wi
 §547 สกิล (ผู้ใช้ 2026-11-08: รีดีไซน์ทั้งชุด — id เดิมไว้ให้ชุดสกิล/tune/…
 W_WL:549 W_DR:555 W_VX:561 W_VO:567 W_FW:573 W_UL:583
 
-## js/10-net.js (200) — 
+## js/10-net.js (200) — เครือข่าย (PeerJS / WebRTC)
 PREFIX:4 NET:5 RC:9 TURN_SERVERS:12 ICE:13 PEER_OPT:14 TURN_URL:16 ICE_READY:18 JN:22 LAG:24 lagDo:25 hostSend:26 LOBBY:27 genCode:28 sendAll:29 NETD_KEYS:33 NETD:33 netDeltaReset:34 netDelta:35 NET_MAX:49 _netTE:49 netSendSnap:50 NETU:62 netUndelta:63 setStatus:69 hostGame:71 hostPeer:80 netConnect:100 joinWatch:111 joinFail:126 netLost:132 joinGame:147 joinPeer:158 clientOnData:173 leave:188 leaveRoom:190
 
 ## js/11-host.js (431) — 
@@ -345,8 +345,8 @@ SGV3:36 sgClearView:37 sgViewBuild:38 SGVZR:57 sgBarrier:59 sgSync:73 sgDust:94 
 §100 HUD
 sgTop:101 sgHud:103
 
-## js/28-fcs-forest.js (124) — ป่าสนหมอก ในแผนที่ First Castle Strike (เฟส 1 = ช่อง x 0–28 ของ Map Editor) — ทำตามรูปอ้า…
-FF:7 FF_X1:8 FF_NS:9 ffGroundTex:11 ffParts:33 fcsForest:40 fcsForestTick:114 FFC:124
+## js/28-fcs-forest.js (167) — 
+FF:7 FF_X1:8 FF_NS:9 ffGroundTex:11 ffParts:33 fcsForest:40 ffMerge:122 ffDetail:130 fcsForestTick:157 FFC:167
 
 ## js/28-maps-build.js (781) — สร้างแผนที่
 CANDLESYS:2 builtMap:3 builtKey:3 world:3 TORCHES:3 CANDLES:3 FIREFLIES:3 CRYSTAL:3 RUNE:3 SNITCH:3 BANNERS:3 SNOW:3 WCACHE:5 WCACHE_MAX:5 wkey:7 buildWorld:8 addW:42 _prewarmed:44 prewarmShaders:45 batchStatic:64 makeCandles:89 updateCandles:98 buildCastle:107 buildHogsmeade:173 buildGreatHall:261 buildForest:331
@@ -838,4 +838,4 @@ _dvCyl:135 _dvMat:136 devOverlay:137
 §157 หน้าต่าง
 _dvPanel:158 _dvBtn:159 devToggle:162 dvBtn:167 dvRow:168 dvTog:169 dvSec:170 devRender:171 devPos:208
 
-(102 files, 28508 lines)
+(102 files, 28574 lines)
